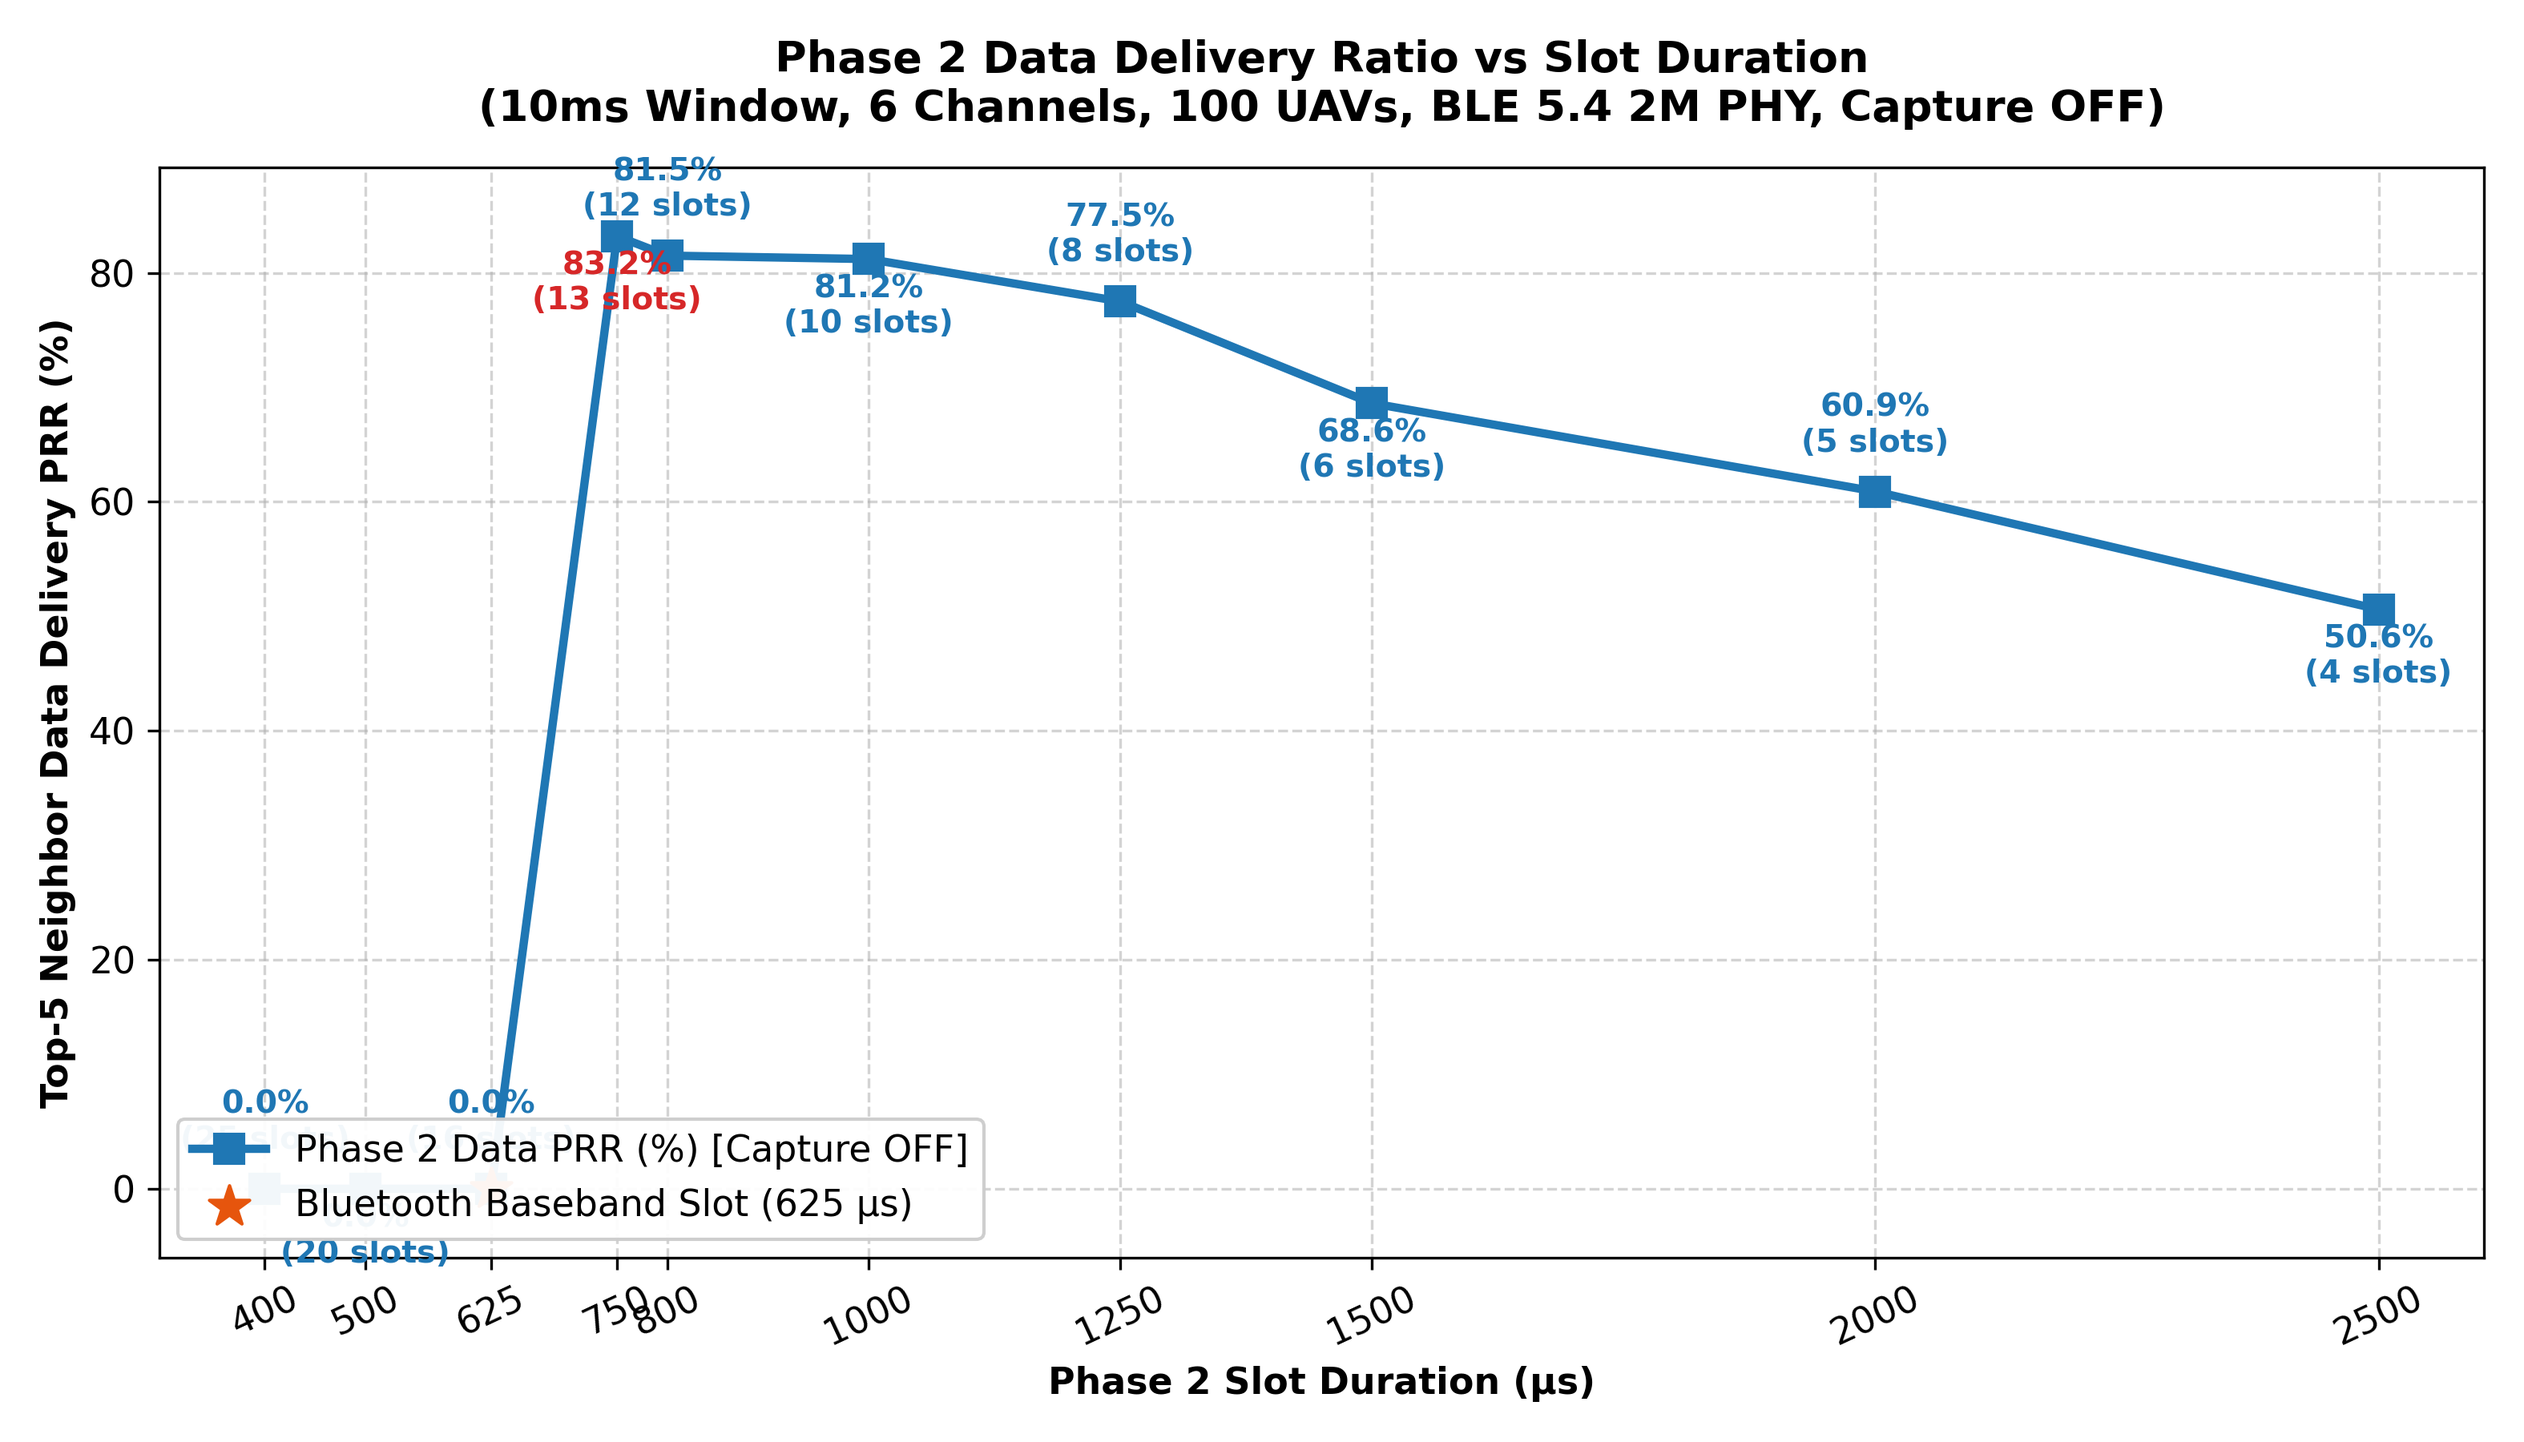
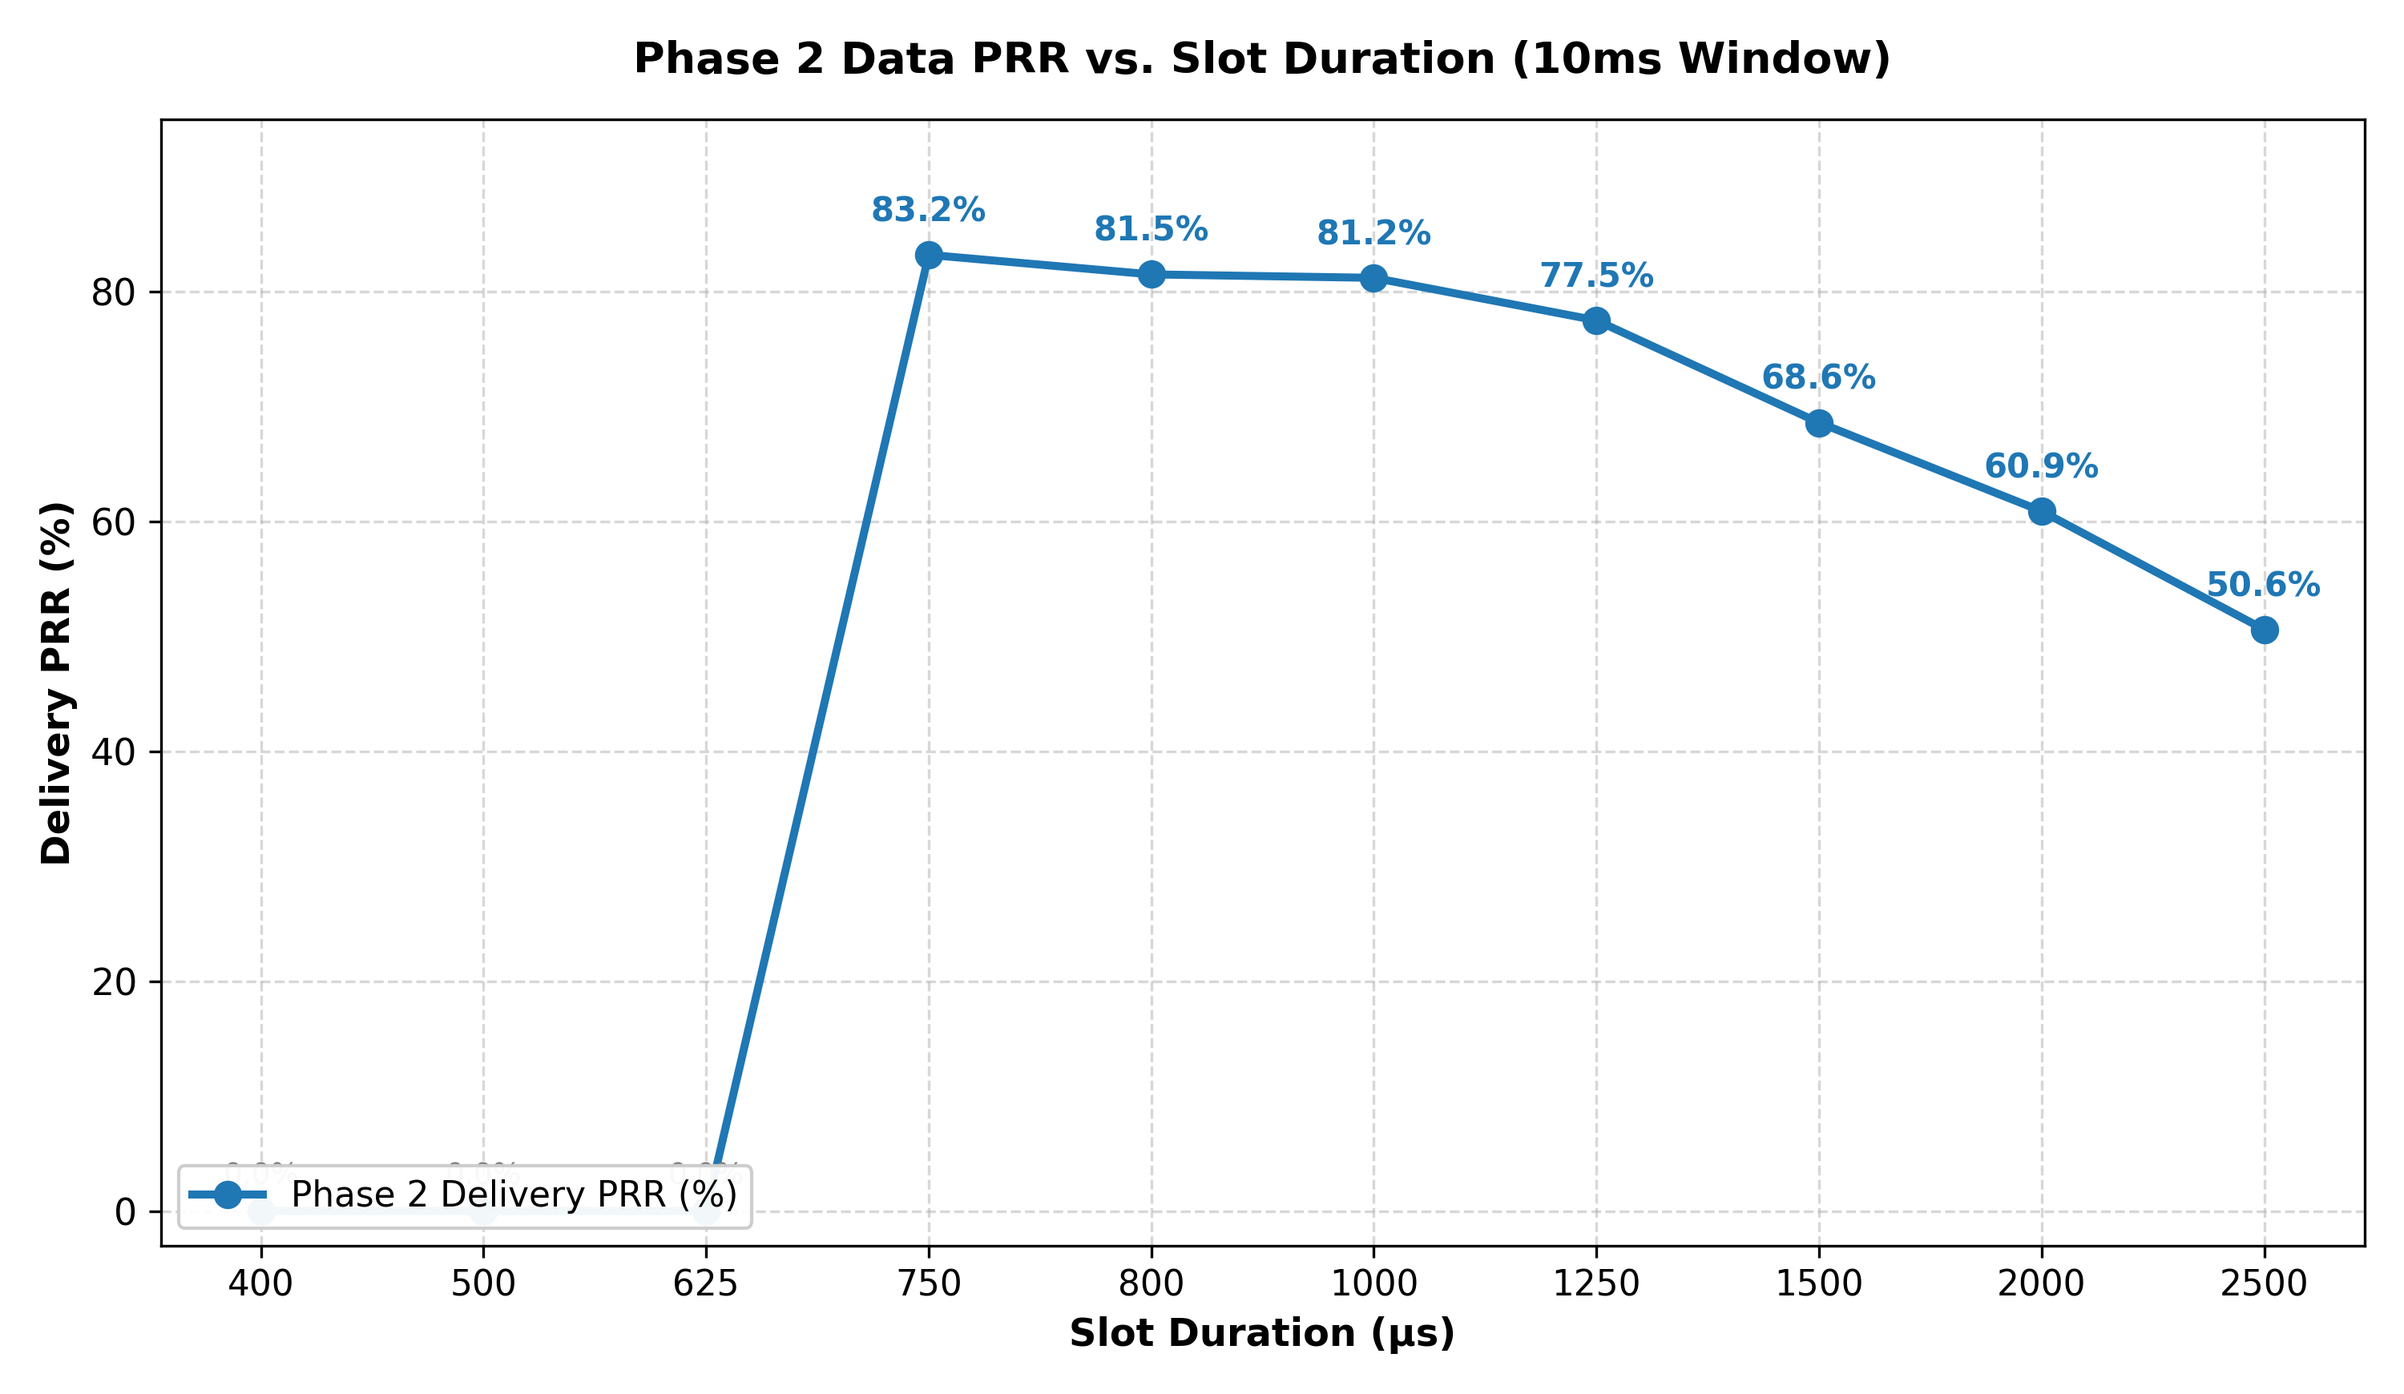
plot: simplify Phase 2 slot duration curve (remove peak star and slot counts)

diff --git a/plot_simple_p2_slot.py b/plot_simple_p2_slot.py
@@ -1,0 +1,91 @@
+#!/usr/bin/env python3
+"""
+Simple & Clean Plot Generator for Phase 2 Slot Duration Optimization:
+- No peak star marker (*)
+- No slot count parentheticals like "(13 slots)"
+- Simple, publication/slide-ready aesthetic
+"""
+
+import os
+import matplotlib
+matplotlib.use('Agg')
+import matplotlib.pyplot as plt
+
+PROJECT_DIR = os.path.dirname(os.path.abspath(__file__))
+ARTIFACT_DIR = "/Users/hbxuan/.gemini/antigravity/brain/580f4ce3-fbf9-4506-9bc7-86b7ef48b448"
+
+# Data from simulation
+slot_durations = [400, 500, 625, 750, 800, 1000, 1250, 1500, 2000, 2500]
+p2_prr = [0.0, 0.0, 0.0, 83.2, 81.5, 81.2, 77.5, 68.6, 60.9, 50.6]
+
+plt.rcParams['font.family'] = 'DejaVu Sans'
+plt.rcParams['font.size'] = 11
+
+# ==============================================================================
+# 1. Clean Simple Plot (All 10 Points, Equidistant Ticks for Clean Spacing)
+# ==============================================================================
+fig, ax = plt.subplots(figsize=(10, 5.8), dpi=300)
+
+# Single clean line and uniform solid markers
+x_indices = list(range(len(slot_durations)))
+ax.plot(x_indices, p2_prr, marker='o', markersize=7.5, linewidth=2.4, color='#1f77b4', label='Phase 2 Delivery PRR (%)')
+
+# Clean annotations: strictly percentages only (NO slots, NO stars, NO peak text)
+for i, (s, p) in enumerate(zip(slot_durations, p2_prr)):
+    if p > 0:
+        offset_y = 10
+        ax.annotate(f"{p:.1f}%", (i, p), textcoords="offset points", xytext=(0, offset_y),
+                    ha='center', fontsize=10, fontweight='bold', color='#1f77b4')
+    else:
+        ax.annotate(f"{p:.1f}%", (i, p), textcoords="offset points", xytext=(0, 8),
+                    ha='center', fontsize=9, color='#7f7f7f')
+
+ax.set_title('Phase 2 Data PRR vs. Slot Duration (10ms Window)', fontsize=13, fontweight='bold', pad=14)
+ax.set_xlabel('Slot Duration (µs)', fontsize=11.5, fontweight='bold')
+ax.set_ylabel('Delivery PRR (%)', fontsize=11.5, fontweight='bold')
+ax.set_xticks(x_indices)
+ax.set_xticklabels([f"{s}" for s in slot_durations], fontsize=10.5)
+ax.set_ylim(-3, 95)
+ax.grid(True, linestyle='--', alpha=0.5)
+ax.legend(loc='lower left', fontsize=10.5, framealpha=0.95)
+
+plt.tight_layout()
+
+# Save to workspace and artifact directory
+out_path_1 = os.path.join(PROJECT_DIR, "p2_slot_sweep_prr.png")
+plt.savefig(out_path_1)
+if os.path.exists(ARTIFACT_DIR):
+    plt.savefig(os.path.join(ARTIFACT_DIR, "p2_slot_sweep_prr.png"))
+plt.close()
+print(f"✅ Saved clean simple plot to {out_path_1}")
+
+# ==============================================================================
+# 2. Focused Operational Plot (750µs ~ 2500µs, Clean & Simple)
+# ==============================================================================
+op_slots = [750, 800, 1000, 1250, 1500, 2000, 2500]
+op_prr = [83.2, 81.5, 81.2, 77.5, 68.6, 60.9, 50.6]
+op_indices = list(range(len(op_slots)))
+
+fig, ax2 = plt.subplots(figsize=(9, 5.5), dpi=300)
+ax2.plot(op_indices, op_prr, marker='o', markersize=7.5, linewidth=2.4, color='#1f77b4', label='Phase 2 Delivery PRR (%)')
+
+for i, (s, p) in enumerate(zip(op_slots, op_prr)):
+    ax2.annotate(f"{p:.1f}%", (i, p), textcoords="offset points", xytext=(0, 10),
+                 ha='center', fontsize=10, fontweight='bold', color='#1f77b4')
+
+ax2.set_title('Phase 2 Data PRR vs. Slot Duration (Operational Range: 750µs ~ 2500µs)', fontsize=12.5, fontweight='bold', pad=14)
+ax2.set_xlabel('Slot Duration (µs)', fontsize=11.5, fontweight='bold')
+ax2.set_ylabel('Delivery PRR (%)', fontsize=11.5, fontweight='bold')
+ax2.set_xticks(op_indices)
+ax2.set_xticklabels([f"{s}" for s in op_slots], fontsize=10.5)
+ax2.set_ylim(40, 92)
+ax2.grid(True, linestyle='--', alpha=0.5)
+ax2.legend(loc='lower left', fontsize=10.5, framealpha=0.95)
+
+plt.tight_layout()
+out_path_2 = os.path.join(PROJECT_DIR, "p2_slot_sweep_prr_operational.png")
+plt.savefig(out_path_2)
+if os.path.exists(ARTIFACT_DIR):
+    plt.savefig(os.path.join(ARTIFACT_DIR, "p2_slot_sweep_prr_operational.png"))
+plt.close()
+print(f"✅ Saved focused operational plot to {out_path_2}")
